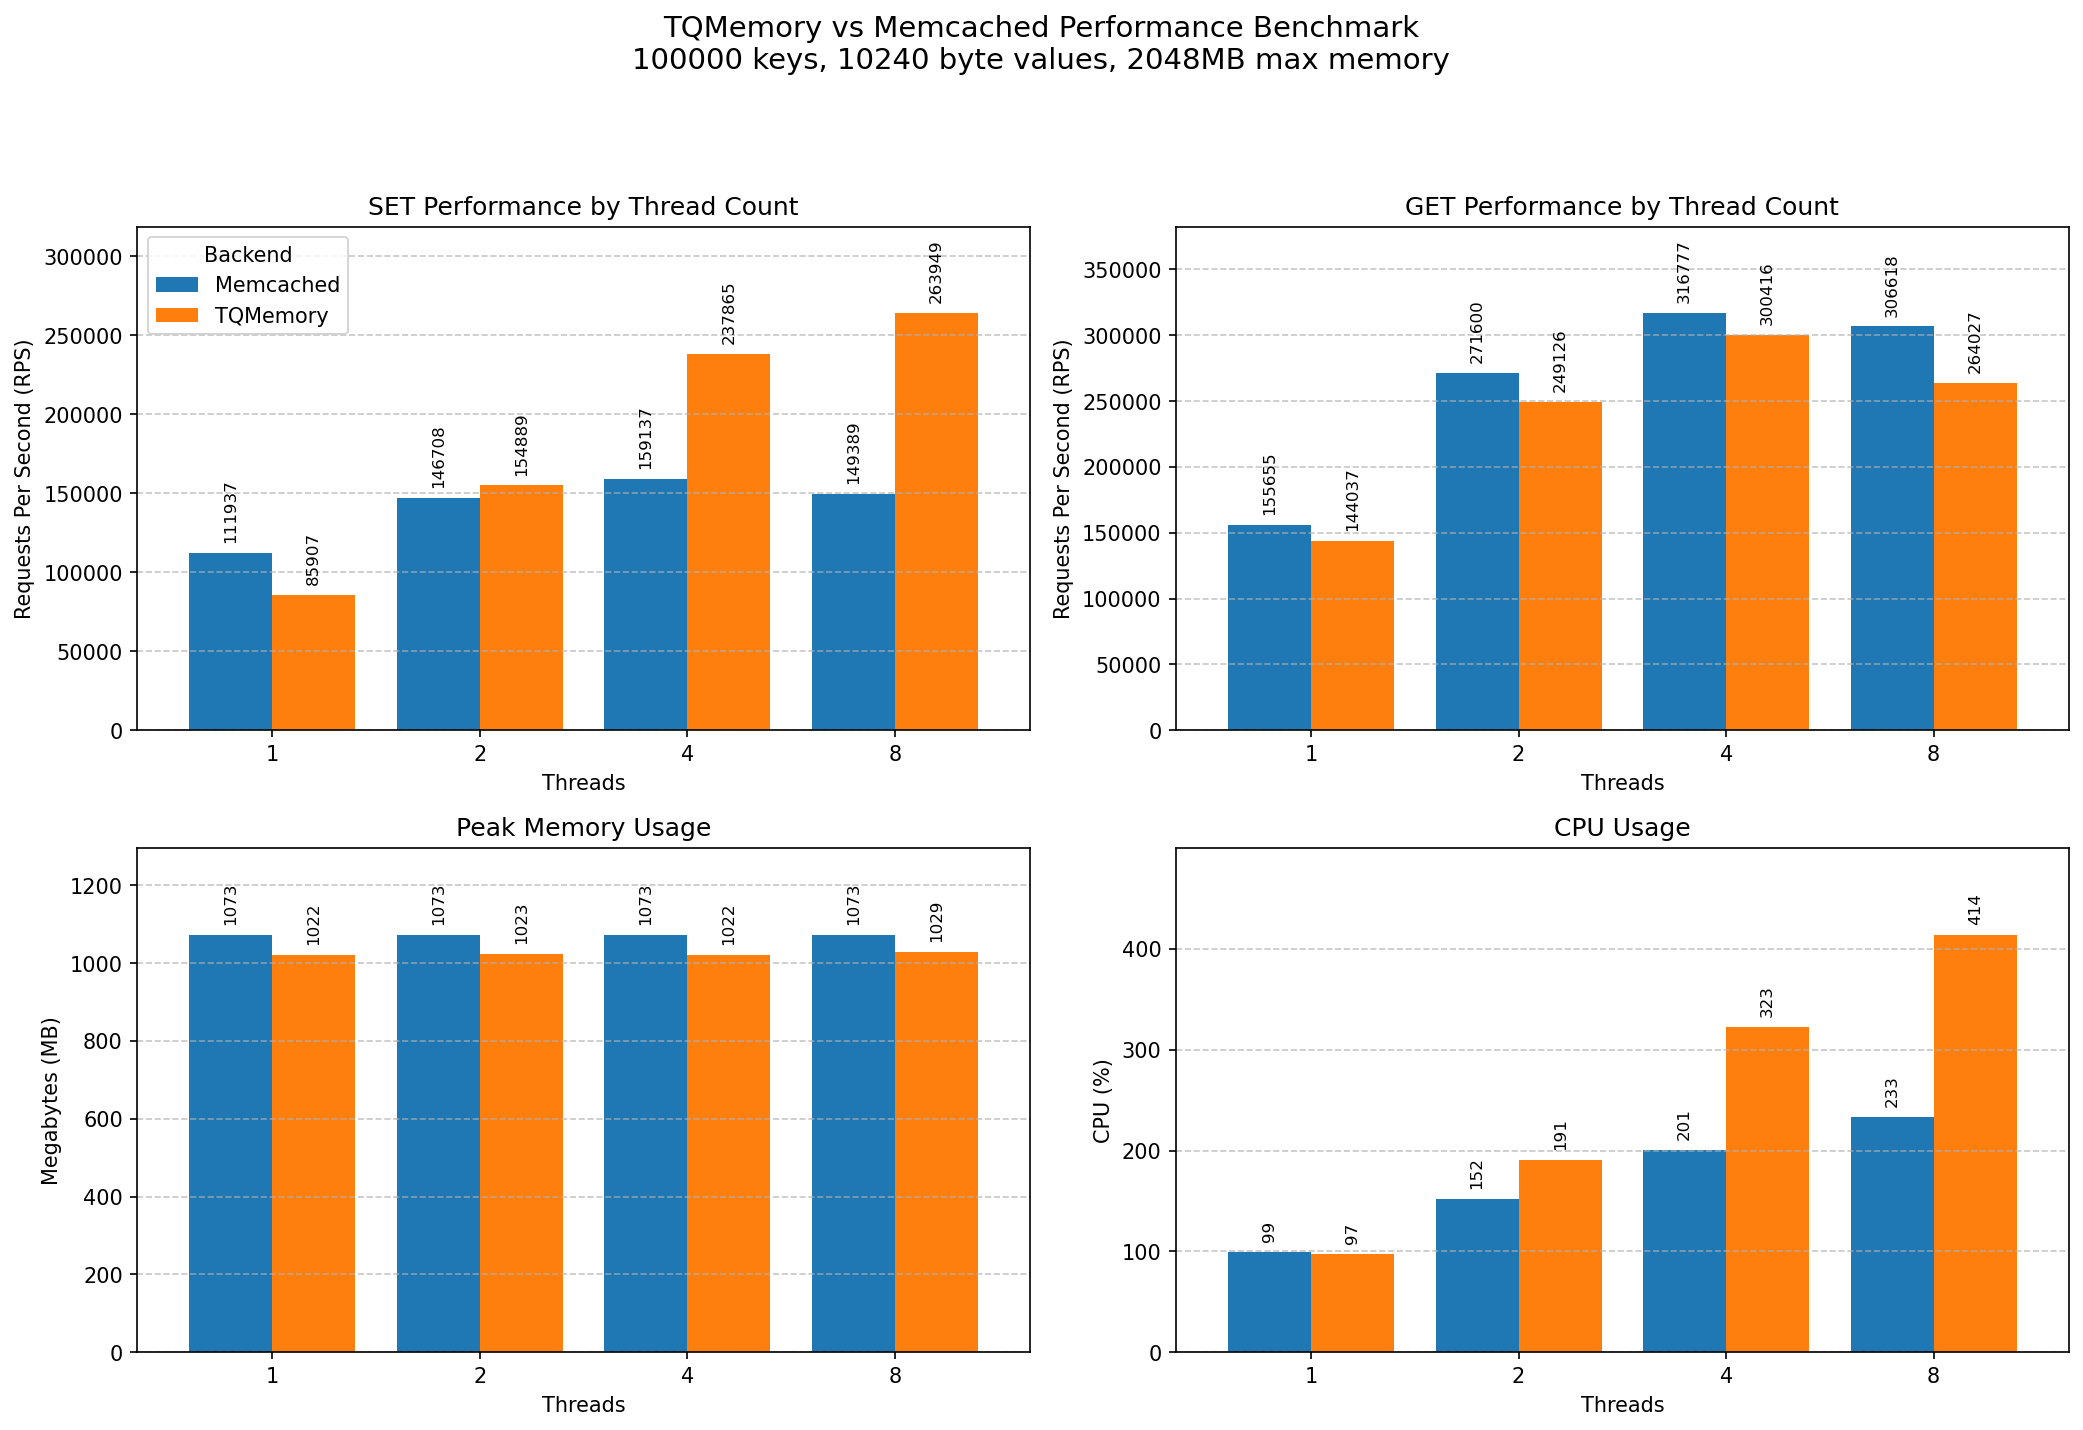
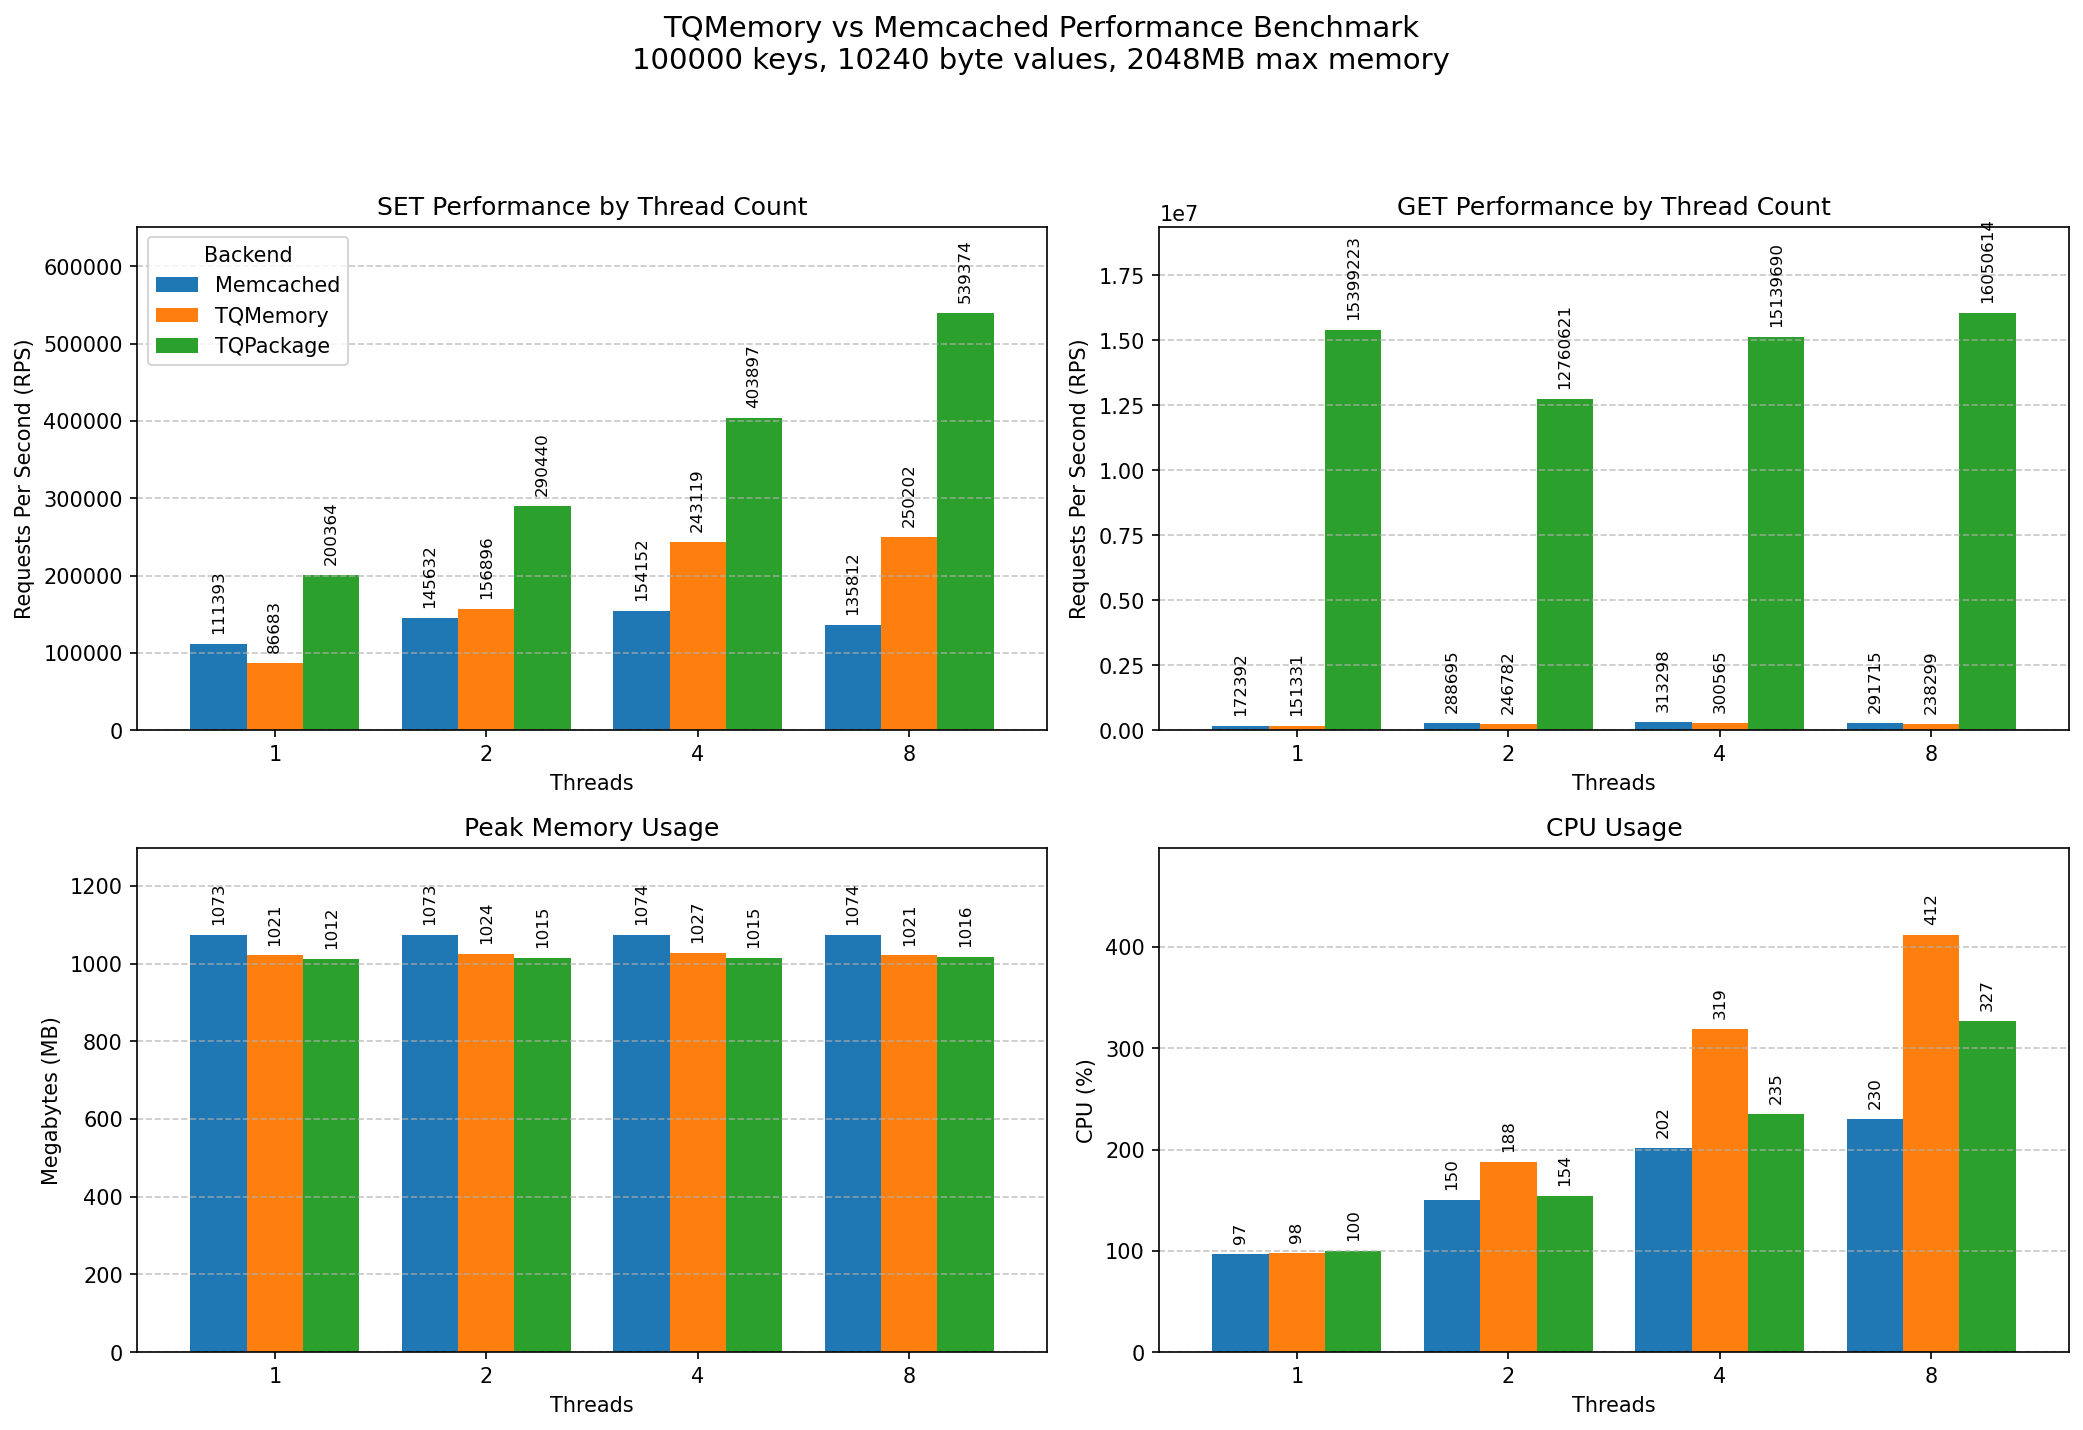
update

diff --git a/benchmarks/getset/getset_benchmark.go b/benchmarks/getset/getset_benchmark.go
@@ -15,12 +15,13 @@ import (
 	"time"
 
 	"github.com/bradfitz/gomemcache/memcache"
+	"github.com/mevdschee/tqmemory/pkg/tqmemory"
 	"github.com/redis/go-redis/v9"
 )
 
 var (
 	host       = flag.String("host", "localhost:11211", "Host to benchmark")
-	protocol   = flag.String("protocol", "memc-txt", "Protocol: memc-txt, memc-bin, or redis")
+	protocol   = flag.String("protocol", "memc-txt", "Protocol: memc-txt, memc-bin, redis, or package")
 	csvOutput  = flag.Bool("csv", false, "Output results in CSV format")
 	label      = flag.String("label", "Target", "Label for the backend (used in CSV)")
 	mode       = flag.String("mode", "default", "Sync mode label (used in CSV)")
@@ -31,6 +32,8 @@ var (
 	cpuprofile = flag.String("cpuprofile", "", "write cpu profile to file")
 	operation  = flag.String("op", "both", "operation to benchmark: set, get, or both")
 	sequential = flag.Bool("sequential", true, "Sequential key access (vs random)")
+	threads    = flag.Int("threads", 4, "Number of worker threads (package protocol only)")
+	memory     = flag.Int("memory", 256, "Memory limit in MB (package protocol only)")
 )
 
 // Benchmarker defines the interface for benchmarking different cache backends
@@ -92,21 +95,69 @@ func (r *RedisClient) Close() error {
 	return r.client.Close()
 }
 
+// PackageClient implements Benchmarker using direct package calls (no network)
+type PackageClient struct {
+	cache *tqmemory.ShardedCache
+}
+
+// Shared cache instance for package protocol
+var sharedCache *tqmemory.ShardedCache
+var sharedCacheMu sync.Mutex
+
+func getSharedCache(threads int, memoryMB int) *tqmemory.ShardedCache {
+	sharedCacheMu.Lock()
+	defer sharedCacheMu.Unlock()
+	if sharedCache == nil {
+		cfg := tqmemory.DefaultConfig()
+		cfg.MaxMemory = int64(memoryMB) * 1024 * 1024
+		var err error
+		sharedCache, err = tqmemory.NewSharded(cfg, threads)
+		if err != nil {
+			log.Fatalf("Failed to create cache: %v", err)
+		}
+	}
+	return sharedCache
+}
+
+func NewPackageClient(threads int, memoryMB int) *PackageClient {
+	return &PackageClient{
+		cache: getSharedCache(threads, memoryMB),
+	}
+}
+
+func (p *PackageClient) Set(key string, value []byte) error {
+	_, err := p.cache.Set(key, value, 0)
+	return err
+}
+
+func (p *PackageClient) Get(key string) error {
+	_, _, err := p.cache.Get(key)
+	return err
+}
+
+func (p *PackageClient) Close() error {
+	// Don't close shared cache - it's reused across clients
+	return nil
+}
+
 func main() {
 	flag.Parse()
 
-	// Determine network type based on host
-	network := "tcp"
-	if len(*host) > 0 && (*host)[0] == '/' {
-		network = "unix"
-	}
+	// Skip connection check for package protocol
+	if *protocol != "package" {
+		// Determine network type based on host
+		network := "tcp"
+		if len(*host) > 0 && (*host)[0] == '/' {
+			network = "unix"
+		}
 
-	// Wait for server to come up (manual check)
-	conn, err := net.DialTimeout(network, *host, 2*time.Second)
-	if err != nil {
-		log.Fatalf("Cannot connect to %s: %v", *host, err)
+		// Wait for server to come up (manual check)
+		conn, err := net.DialTimeout(network, *host, 2*time.Second)
+		if err != nil {
+			log.Fatalf("Cannot connect to %s: %v", *host, err)
+		}
+		conn.Close()
 	}
-	conn.Close()
 
 	if *cpuprofile != "" {
 		f, err := os.Create(*cpuprofile)
@@ -131,21 +182,6 @@ func main() {
 	rand.Read(val)
 
 	// Factory function to create new clients based on protocol
-	// Note: For benchmarks, creating a new client per goroutine (or sharing one) depends on the driver.
-	// gomemcache is typically thread-safe but here we mimicked the original behavior of one client per routine.
-	// go-redis is also thread-safe and uses a pool.
-	// To strictly emulate "concurrent clients", creating separate instances is cleaner for isolation,
-	// but might just be multiple connections from one pool in go-redis case.
-	// For simplicity, we create a new "Benchmarker" wrapper per routine.
-
-	// Factory function to create new clients based on protocol
-	// Note: For benchmarks, creating a new client per goroutine (or sharing one) depends on the driver.
-	// gomemcache is typically thread-safe but here we mimicked the original behavior of one client per routine.
-	// go-redis is also thread-safe and uses a pool.
-	// To strictly emulate "concurrent clients", creating separate instances is cleaner for isolation,
-	// but might just be multiple connections from one pool in go-redis case.
-	// For simplicity, we create a new "Benchmarker" wrapper per routine.
-
 	clientFactory := func() Benchmarker {
 		switch *protocol {
 		case "memc-txt":
@@ -154,6 +190,8 @@ func main() {
 			return NewBinaryMemcacheClient(*host)
 		case "redis":
 			return NewRedisClient(*host)
+		case "package":
+			return NewPackageClient(*threads, *memory)
 		default:
 			log.Fatalf("Unknown protocol: %s", *protocol)
 			return nil
